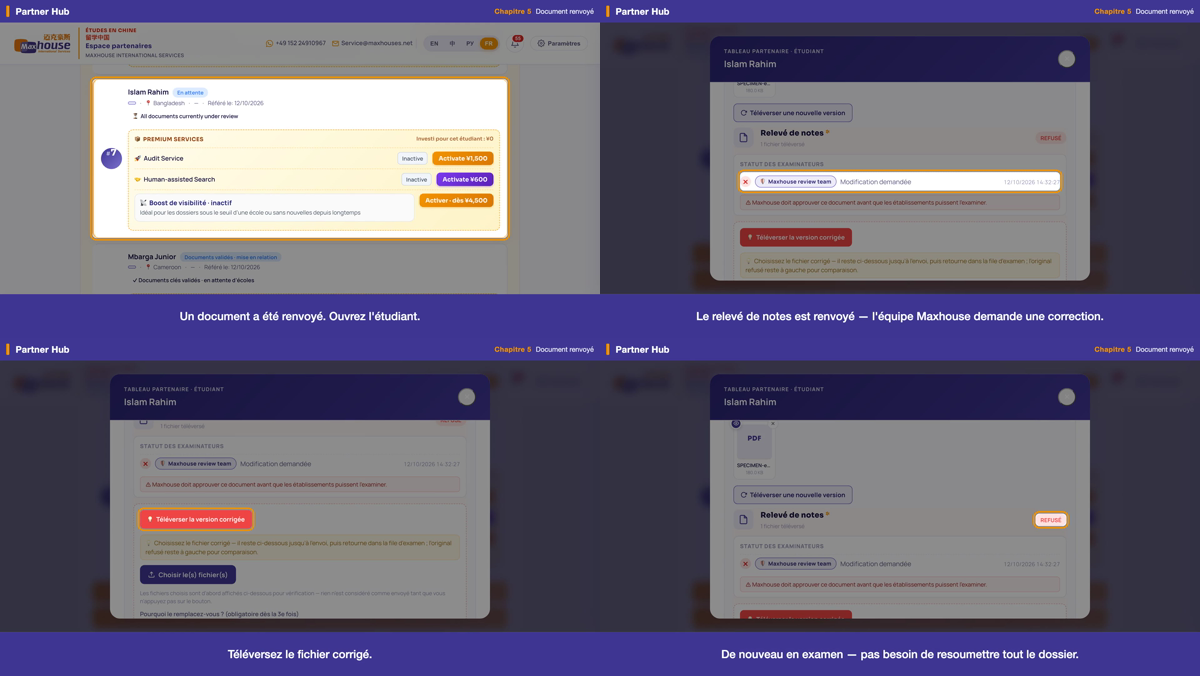
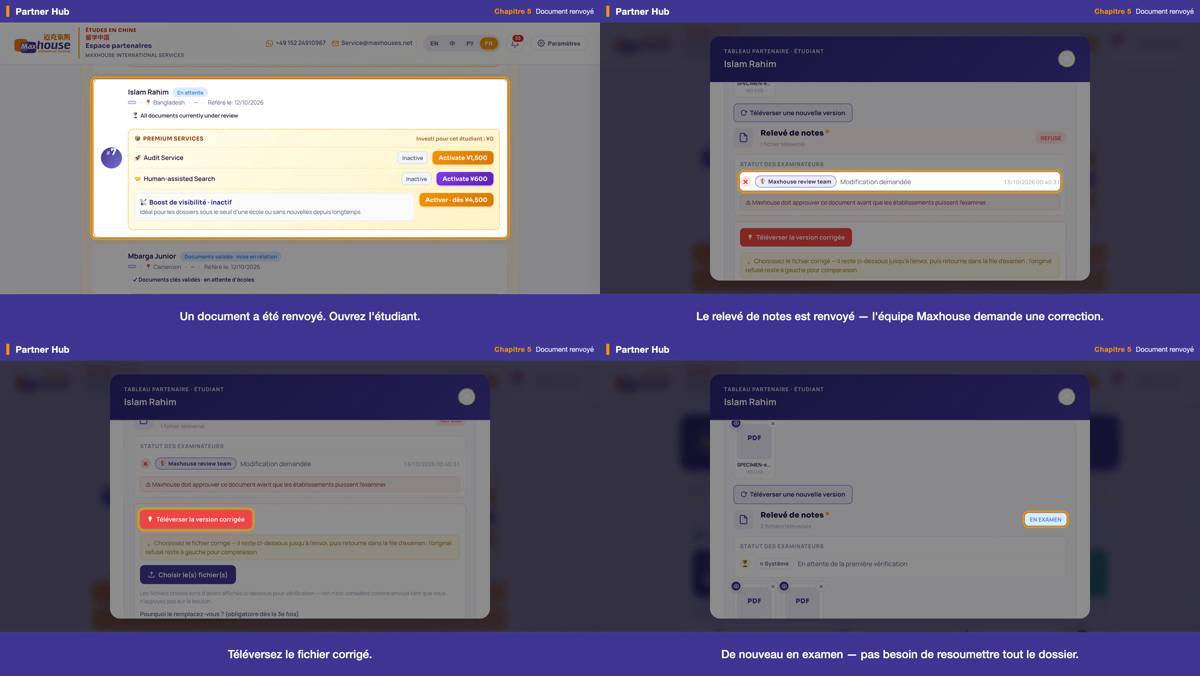
JOB-GP1 返工trip33: ch5 材料退回章(两态)v185 四语横竖定版重录——review1 §三.3+§三.4+§三.8+§一。两态分录(退回基线录5-1/5-2/5-3+置态st-pt03-reupload录5-4真审核中态,prod-ch --tags拼章);5-4靠产品0104 supersede真回审核中(非前端伪造),徽章四语本地化 审核中/НА ПРОВЕРКЕ/EN EXAMEN/REVIEWING(land原始帧亲验);5-1 ¥0无负数。8片全res OK+audio yes+no @gmail+4镜hl全resolve。开工+收工 verify 17/17 

diff --git a/JOB-GP1-03-PROGRESS.md b/JOB-GP1-03-PROGRESS.md
@@ -1,3 +1,15 @@
+最后一趟：2026-10-13 第33趟 返工：**做了**＝ch5 材料退回章（两态·state 章）v185 四语横竖定版重录，落 review1 §三.3（5-2 字幕）+§三.4（5-4 真·审核中态）+§三.8（5-1 工作台）+§一（v185 背景）。**两态为何必需**：5-2 需退回态 `.reviewer-row-rejected`、5-4 需审核中态 `.badge-reviewing`，apply `st-pt03-reupload` 后 transcript 被产品 0104 supersede、退回行消失→单 rec pass 不可兼得（trip25 实证）。故**两态分录**：退回基线录 5-1/5-2/5-3，置态后单录 5-4，`prod-ch --tags` 按镜序拼成一章。**工具（jobs 工装·非产品码·rec 仍只读·DB 全走 db-run.sh）**：rec.mjs 加 `--only`/`--tagsuffix`、prod-ch.mjs 加多 tag 拼章、gp1-finish.mjs chapterShotDurs 合并 companion `b` 目录。**§三.4 真态（零改产品码·非前端伪造）**：录前 `st-pt03-reupload`（新建 transcript v2、uploaded_at 更晚、无新裁决）→ 产品自身 0104 supersede → 详情弹窗 transcript 槽真变 reviewing → 徽章真·本地化：zh「审核中」/ru「НА ПРОВЕРКЕ」/fr「EN EXAMEN」/en「REVIEWING」+ 矩阵「等待初步审核/Ожидает первичной проверки/En attente de la première vérification/Awaiting initial review」（四语 land 原始帧亲验，非 EN 回退、非伪造）。录后 `st-pt03-reupload-reset-cleanup` 删 v2 回退态。**§一**：5-1「Invested ¥0」无负数（缺陷1 销账）。8 片全 res OK+audio yes+no @gmail+4 镜 hl 全 resolve（passA 3+passB 1）。EN land 4 镜原始帧 + 四语 land 5-4 徽章帧 + 四语 land/port 联络表（帧取字幕中点）亲验；§十一对账四语写 REVIEW-*-shots.md（ch5 定版段）。时长 land en36.87/zh36.82/ru36.97/fr36.67·port en36.83/zh36.77/ru36.84/fr36.81s（4 镜）。开工+收工 verify **17/17 PASS 0 FAIL**，baseline 守住（scoped 复位，无全量 rebuild）。ch5 v1 在 `_v1/` 留底、dist 覆盖定版 v2。**全片不重拼**（待全部工作台章完后统一拼）。主仓库点名提交 JOB-GP1 不推；四语 ch5 联络表(land+port)+4 REVIEW+决定账+PROGRESS 推 mh-jobs。**下趟**＝下一含工作台章定版重录（ch9 9-2/9-3 已改·需 v185 背景重录 / ch10 读-only / OP-3·4·5 开场快剪，素材已不阻塞），一趟一章；全部完后四语十一项重审+重拼全片→写 SUMMARY-GP1。**GP-1 未收官，勿据旧『收官』停工。**
+
+# 第 33 趟（2026-10-13 Mac mini 无人值守）· ch5 材料退回章（两态·state 章）v185 定版重录（review1 §三.3 + §三.4 + §三.8 + §一）
+- **接手核对**：git status + 读齐 PROGRESS/loop-tail/RULING-b-review1/-c-rework/-d-funnel/-e-v185-live/DECISIONS/storyboard/QUEUE。trip32 ch8 已定版；下趟列 ch5 首。首行开工即改「返工进行中」，开工 verify **17/17 PASS**（#10 pt-03 退回态在）。
+- **两态机制（见 D-33-1）**：退回基线录 5-1/5-2/5-3；apply `st-pt03-reupload` 录 5-4（产品 0104 supersede 真·回审核中）；`prod-ch --tags` 拼章。工具 rec.mjs `--only`/`--tagsuffix` + prod-ch 多 tag + gp1-finish chapterShotDurs 合并 companion。
+- **录制闭环（每变体）**：verify 退回基线 → passA(`--only 5-1,5-2,5-3`) → apply reupload(自检 2/t/1) → passB(`--only 5-4 --tagsuffix b`) → reset(自检 1/1) → `prod-ch --tags`。8 变体全过。
+- **自验**：EN land 4 镜原始帧 + 四语 land 5-4 徽章帧（真·本地化）+ 四语联络表；5-1 ¥0 无负数；§十一四语写 REVIEW-*-shots.md。
+- **DB**：开工+收工 verify **17/17 PASS 0 FAIL**，往返幂等、零残留。
+- **改了**（主仓库，点名 JOB-GP1，不推）：rec/rec.mjs、rec/prod-ch.mjs、rec/gp1-finish.mjs、REVIEW-{en,zh,ru,fr}-shots.md、DECISIONS.md。shots/captions 未改（trip24/25 已 banked）；成片/voice 不入 git；ch5 v1 在 _v1/、dist 覆盖定版 v2；全片不重拼。四语 ch5 联络表+4 REVIEW+决定账+PROGRESS 推 mh-jobs。
+- **下趟**：ch9 / ch10 / OP-3·4·5，一趟一章；全部完后十一项重审+重拼全片→写 SUMMARY-GP1。GP-1 未收官。
+
+【上一趟（第32趟）首行存档】
 最后一趟：2026-10-13 第32趟 返工：**做了**＝ch8 名额/提额章（state 章）v185 四语横竖定版重录，落 review1 §三.7 + §一。**§三.7（8-1 横幅矛盾）**：基线有一张 pending quota_request（verify #13）→ 工作台顶恒显 amber「Quota raise pending: 10→30」，与 8-2/8-3「才去申请」矛盾。读产品源（partner v185 L14679-14757 `_qrApplyBanner`）定逻辑：pending 行→amber 横幅；否则看最新裁决行，decided_at 空→box 空。做法＝新建 `st-ch8-quota-off.sql` 单列可逆 UPDATE 把该行 `status='pending'→'approved'`（decided_at 保持 NULL）→ 横幅清空（8-1/8-2/8-3 无横幅），`referral_quota` 不动（仍 10，hero 数字不变）；录后 `st-ch8-quota-restore.sql` 还原 pending → verify #13 回基线。**8-1 字幕随 §11 改**：产品无常驻名额表（§三.1 已证），去横幅后 8-1 高亮 `.partner-stats-hero-card` 仅显「STUDENTS SUBMITTED 9」→ 字幕「Your quota is almost used up.」改述屏真有的数「You've submitted nine students.」（zh「你已提交九名学生。」/ru/fr 重译回译），四语重配音；「名额已满」语境由 8-2 弹窗标题「Referral quota reached · used 9/10」承接，8-2 不改。**8-4 改前端伪造为产品自身渲染（§8 先例）**：旧 8-4 改写 pending 卡造绿条（去横幅后无此卡）→ 改调产品自身 `_qrApplyBanner()` 喂样例已批数据，hl 改 `#qrPendingBanner`，渲染真·绿条——zh 真中文「提额申请已批准：配额已调整为 30 席」、en/ru/fr 走产品 LL 的 EN 回退（＝D-18-4 记录的真产品行为）；因 hero 卡不显名额数，8-4「now 30 seats」与屏上无名额数字冲突（§十 数字一致守住）。**§一**：8-1/8-4 hero「TOTAL PAYMENTS PROCESSED ¥0」无负数（缺陷1 销账）。登录态只读探针 `_probe-ch8-fns.mjs` 实证产品函数/let 变量 eval 可达 + 喂样例渲染真绿条。8 片全 res OK+audio yes+no @gmail+4 镜 hl 全 resolve。亲验：EN land 8-1（无横幅框 9）/8-4（产品绿条非伪造）原始帧 + 四语 land 联络表 + en-port 联络表（§11 四镜全「是」，写入 REVIEW-*-shots）。时长 land en30.32/zh28.31/ru30.80/fr31.89·port en30.07/zh28.26/ru30.80/fr31.68s。开工+收工 verify **17/17 PASS 0 FAIL**，baseline 守住（scoped 复位，无全量 rebuild）。ch8 v1 早在 _v1/ 留底、dist 覆盖 v2。**全片不重拼**（待全部工作台章完后统一拼）。主仓库点名提交 JOB-GP1 不推；四语 ch8 联络表(land+port)+4 REVIEW+决定账+PROGRESS 推 mh-jobs。**下趟**＝下一含工作台章定版重录（ch5 5-1 工作台+5-4 两态 / ch9 9-2·9-3 已改需 v185 背景重录 / ch10 读-only / OP-3·4·5 开场快剪），一趟一章；全部完后四语过十一项重审+重拼全片→写 SUMMARY-GP1。**GP-1 未收官，勿据旧『收官』停工。**
 
 # 第 32 趟（2026-10-13 Mac mini 无人值守）· ch8 名额/提额章 v185 定版重录（review1 §三.7 + §一）

diff --git a/JOB-GP1-decisions.md b/JOB-GP1-decisions.md
@@ -591,3 +591,20 @@
 - **DB**：ch8 开工+收工 verify **17/17 PASS 0 FAIL**，baseline 守住（scoped 复位，无全量 rebuild）。
 - **改了**（主仓库，点名 JOB-GP1，不推）：`states/st-ch8-quota-off.sql`(新)、`states/st-ch8-quota-restore.sql`(新)、`rec/shots-v1.json`(8-1 cap+action、8-4 pre/hl/expect 重写)、`captions-v1.json`(8-1 四语)、`rec/_probe-ch8-quota.sql`/`_probe-ch8-qrrow.sql`/`_probe-ch8-fns.mjs`(新·只读)、`REVIEW-{en,zh,ru,fr}-shots.md`、`DECISIONS.md`。voice/8-1 四语重配、成片不入 git；ch8 v1 早在 `_v1/` 留底、dist 覆盖 v2。全片不重拼（待全部工作台章完后统一拼）。四语 ch8 联络表(land+port)+4 REVIEW+决定账+PROGRESS 推 mh-jobs。
 - **下趟**：下一含工作台章定版重录——ch5（5-1 工作台 + 5-4 两态·需 st-pt03-reupload 两态分录）/ ch9（9-2/9-3 已改·需 v185 背景重录）/ ch10（读-only）/ OP-3·4·5 开场快剪。一趟一章；全部完后四语十一项重审+重拼全片→写 SUMMARY-GP1。**GP-1 未收官。**
+
+## D-33-1（返工第33趟 2026-10-13）· ch5 材料退回章（两态·state 章）v185 四语横竖定版重录 · review1 §三.3 + §三.4 + §三.8(5-1) + §一
+- **接手核对**：git status + 读齐 PROGRESS/loop-tail/RULING-b-review1/-c-rework/-d-funnel/-e-v185-live/DECISIONS/storyboard/QUEUE。trip32 ch8 已定版；trip32「下趟」列 ch5 首。loop-tail 查明 16:00 那趟两分钟即停＝误读旧「收官」——首行开工即改「返工进行中」。开工 verify **17/17 PASS**（#10 pt-03 退回态在、baseline 守住）。
+- **选题**：ch5 压着三处 review1 遗留——§三.3（5-2 EN 字幕，trip24 已 banked 字幕/配音但为过渡版，5-1 未定版）+ §三.4（5-4 真态机制 trip25 已落、帧捕获明文延后至 ch5 定版重录）+ §三.8（5-1 工作台背景节奏）+ §一（5-1 工作台 v185）。缺陷2 已 v185 修好上线（RULING-d/e），阻塞解除。
+- **两态为何必需**（trip25 D-25-1 实证）：5-2 需退回态 `.reviewer-row-rejected`、5-4 需审核中态 `.badge-reviewing`，apply `st-pt03-reupload` 后 transcript 被 0104 supersede、`.reviewer-row-rejected` 消失 → 单 rec pass 不可兼得。故**两态分录**：退回基线录 5-1/5-2/5-3，置态后单录 5-4。
+- **工具（jobs 工装，非产品码；rec 仍只读，DB 全走 db-run.sh）**：
+  1. `rec/rec.mjs` 加 `--only <csv>`（只录给定镜号子集）+ `--tagsuffix <s>`（同章分趟录到不同 out 目录，timeline.chapter 仍=CH）。
+  2. `rec/prod-ch.mjs` buildChapter 接受逗号分隔多 tag 或 `--tags a,b`，按镜序跨多 timeline/frames 拼一章（ch5 两态：`<lang>-<orient>-ch5` 3 镜 + `...-ch5b` 1 镜 → 4 镜一章）；输出名仍 ch5-<orient>-<lang>.mp4。
+  3. `rec/gp1-finish.mjs` chapterShotDurs 检测 companion `<base>b` out 目录、按镜序合并（联络表取帧、将来全片重拼均据此）。
+- **§三.4 真态（零改产品码、非前端伪造）**：录前 `bash jobs/db-run.sh states/st-pt03-reupload.sql`（新建 transcript v2、uploaded_at 更晚、无新裁决）→ 产品自身 0104 supersede → 详情弹窗 transcript 槽真变 reviewing → 徽章真 `.badge-reviewing`（四语本地化：审核中 / НА ПРОВЕРКЕ / EN EXAMEN / REVIEWING）、矩阵「Awaiting initial review / 等待初步审核 / Ожидает первичной проверки / En attente de la première vérification」。录后 `st-pt03-reupload-reset-cleanup.sql` 删 v2 回退态。
+- **录制闭环（每变体）**：verify 基线退回态 → 录 passA(`--only 5-1,5-2,5-3`) → apply reupload（自检 2/t/1）→ 录 passB(`--only 5-4 --tagsuffix b`) → reset（自检 1/1）→ `prod-ch --tags ...` 拼章。8 变体全 res OK+audio yes+4 镜 hl 全 resolve（passA 3 + passB 1）+全片 no @gmail。
+- **自验**：EN land 4 镜原始帧 + 四语 land 5-4 徽章原始帧亲验（zh 审核中 / ru НА ПРОВЕРКЕ / fr EN EXAMEN 真·本地化，非 EN 回退、非伪造）+ 四语 land/port 联络表（帧取字幕中点）。5-1「Invested ¥0」无负数（§一/缺陷1 销账）；§十一对账四语写 REVIEW-*-shots.md（ch5 定版段）。
+- **时长**：land en36.87/zh36.82/ru36.97/fr36.67 · port en36.83/zh36.77/ru36.84/fr36.81s（4 镜；较过渡版 32s 多 5-4 真态段）。
+- **DB**：ch5 state 章，开工+收工 verify **17/17 PASS 0 FAIL**，往返幂等、收工 clean、零残留（scoped 复位，无全量 rebuild）。
+- **非四种停下情形**：§三.3/.4/.8 + §一全在 §0.3/§0.4 + 成片工装范围，记账继续。
+- **改了**（主仓库，点名 JOB-GP1，不推）：`rec/rec.mjs`(--only/--tagsuffix)、`rec/prod-ch.mjs`(多 tag 拼章)、`rec/gp1-finish.mjs`(chapterShotDurs 合并 companion)、`REVIEW-{en,zh,ru,fr}-shots.md`(追加 ch5 定版段)、`DECISIONS.md`。shots-v1.json/captions-v1.json 本趟未改（5-4 shot 定义 trip25 已落、字幕四语 trip24/16 已 banked）；成片/voice 不入 git；ch5 v1 在 `_v1/` 留底、dist 覆盖定版 v2。四语 ch5 联络表(land+port)+4 REVIEW+决定账+PROGRESS 推 mh-jobs。
+- **下趟**：下一含工作台章定版重录——ch9（9-2/9-3 字幕 trip23 已改·需 v185 背景重录）/ ch10（读-only v185）/ OP-3·4·5 开场快剪（素材 3-8/7-0/7-1 已随 ch3/ch7 定版就位，不再阻塞）。一趟一章；全部完后四语十一项重审+重拼全片→写 SUMMARY-GP1。**GP-1 未收官。**

diff --git a/JOB-GP1-REVIEW-en-shots.md b/JOB-GP1-REVIEW-en-shots.md
@@ -145,3 +145,18 @@
 - 时长：land 30.32s / port 30.07s（4 镜）。8 片（四语横竖）全 res OK + audio yes。全片 DOM 扫描 **no @gmail**；8 录屏 4 镜 hl 全 resolve、零 MISS。
 - 逐张亲眼复验（EN land 8-1/8-4 原始帧 + 四语 land 联络表 + en-port 联络表）：8-1 **无 pending 横幅**、框住 STUDENTS SUBMITTED 9（§三.7 达标）；8-4 产品绿条「approved: now 30 seats」（非伪造 HTML）；全程 ¥0 无负数、Demo Agency 无真 PII、邮箱掩码、无 beta/内测/test 控件、页头平台 WhatsApp/Email 不遮（D-14-3/D-15-1）。
 - 记账：8-3 不真提交（零写库）；录前 st-ch8-quota-off（status→approved/decided_at NULL）、录后 st-ch8-quota-restore（→pending）；开工+收工 verify 17/17 PASS，baseline 守住（scoped 复位，无全量 rebuild）。
+
+## ch5 定版重录（两态·v185，返工第33趟 2026-10-13 · 落 §三.3 5-2 + §三.4 5-4 真态 + §三.8 5-1 + §一）
+前置：ch5＝材料退回章（guide-pt-03 Islam Rahim）。此前 trip24 只 banked 5-2 新字幕（过渡版）、trip25 只落 5-4 真态机制与置态/复位脚本（帧捕获明文延后至 ch5 定版重录）。本趟缺陷2 已 v185 修好上线（RULING-20261012d/e），对已修数据**两态定版重录全章**：5-1/5-2/5-3 在退回基线录、5-4 在 apply `st-pt03-reupload` 后单录，由 `prod-ch --tags` 按镜序拼成一章（rec 全程只读，DB 置态/复位走 db-run.sh，录后 reset 回退态、verify 17/17 守住）。工具：rec.mjs 加 `--only`/`--tagsuffix`、prod-ch.mjs 加多 tag 拼章、gp1-finish.mjs chapterShotDurs 合并 companion `b` out 目录。
+- **§三.4（5-4 真态·零改产品码）**：靠产品自己的 0104 supersede——pt-03 真·新建一行更正版 transcript（uploaded_at 更晚、无新裁决）→ `get_partner_student_doc_statuses` 不再返回 reject → 详情弹窗 transcript 槽 `slot.status` 真变 `reviewing`、徽章真变 `.badge-reviewing`、矩阵「Awaiting initial review」。非前端伪造（旧 setInterval 改字已删）。
+- **§一**：5-1 工作台背景 v185，`Invested on this student: ¥0` 无负数（缺陷1 销账）。
+
+| 镜 | 字幕原文 | 高亮区 DOM 实际文字（从 v185 真帧 DOM 读） | 同一件事？ |
+|----|----------|---------------------|-----------|
+| 5-1 | A document was returned. Open the student. | `#__ch5card`（Islam Rahim 学生卡）「Submitted · awaiting platform review」+ 卡「Invested on this student: ¥0」（无负数） | 是（该生有材料被退回→打开其详情） |
+| 5-2 | The transcript was returned — the Maxhouse review team requested a change. | `.reviewer-row-rejected`「⚠ Maxhouse review team · Modification requested」（材料「Academic transcript · REJECTED」） | 是 |
+| 5-3 | Upload the corrected file. | `.replace-box-rej`「Re-upload a new version」换版框 + 暂存样件「SPECIMEN-e… · 180.0 KB」（前端暂存·零写库） | 是 |
+| 5-4 | Back under review — no need to resubmit the whole application. | `#studentDetailModal .badge-reviewing`「REVIEWING」+「Academic transcript · 2 files uploaded」+ 矩阵「⚙ System · Awaiting initial review」（同帧无 `.badge-rejected`、无「Modification requested」） | 是（更正件已上传→成绩单真·回审核中，待初审） |
+- 时长：land 36.87s / port 36.83s（4 镜）。8 片（四语横竖）全 res OK + audio yes；8 录屏 4 镜 hl 全 resolve、零 MISS；全片 DOM 扫描 **no @gmail**。
+- 逐张亲眼复验（EN land 4 镜原始帧 + 四语 land/port 联络表）：5-1「Invested ¥0」无负数（§一/缺陷1 销账）；5-2 框住「Modification requested」退回行（§三.3 达标）；5-4 产品**真·审核中**徽章 REVIEWING + 「Awaiting initial review」（非前端伪造，§三.4 达标）；演示生 Islam Rahim 无真 PII；无 beta/内测/test 控件；页头平台 WhatsApp/Email 不遮（D-14-3/D-15-1）。
+- 记账：录前 apply `st-pt03-reupload`（新建 transcript v2）、录后 `st-pt03-reupload-reset-cleanup` 删 v2 回退态；开工+收工 verify **17/17 PASS 0 FAIL**，baseline 守住（scoped 复位，无全量 rebuild）。ch5 v1 在 `_v1/` 留底、dist 覆盖为定版 v2。全片不重拼（待全部工作台章完后统一拼）。

diff --git a/JOB-GP1-REVIEW-ru-shots.md b/JOB-GP1-REVIEW-ru-shots.md
@@ -98,3 +98,18 @@ D-18-4：RU 界面里产品动态串回退成英文（PREMIUM SERVICES / Audit S
 
 - 时长：land 30.80s / port 30.80s（4 镜）。全 res OK + audio yes，no @gmail，4 镜 hl 全 resolve。
 - 亲验 ru land 联络表四镜：8-1 无横幅框 9、章节条俄文「Глава 8 · Квота и увеличение」、8-4 绿条（EN 回退·产品渲染）；¥0 无负数、无 beta。收工 verify 17/17 PASS。
+
+## ch5 定版重录（两态·v185，返工第33趟 2026-10-13 · 落 §三.3 5-2 + §三.4 5-4 真态 + §三.8 5-1 + §一）
+前置：ch5＝材料退回章（guide-pt-03 Islam Rahim）。此前 trip24 只 banked 5-2 新字幕（过渡版）、trip25 只落 5-4 真态机制与置态/复位脚本（帧捕获明文延后至 ch5 定版重录）。本趟缺陷2 已 v185 修好上线（RULING-20261012d/e），对已修数据**两态定版重录全章**：5-1/5-2/5-3 在退回基线录、5-4 在 apply `st-pt03-reupload` 后单录，由 `prod-ch --tags` 按镜序拼成一章（rec 全程只读，DB 置态/复位走 db-run.sh，录后 reset 回退态、verify 17/17 守住）。工具：rec.mjs 加 `--only`/`--tagsuffix`、prod-ch.mjs 加多 tag 拼章、gp1-finish.mjs chapterShotDurs 合并 companion `b` out 目录。
+- **§三.4（5-4 真态·零改产品码）**：靠产品自己的 0104 supersede——pt-03 真·新建一行更正版 transcript（uploaded_at 更晚、无新裁决）→ `get_partner_student_doc_statuses` 不再返回 reject → 详情弹窗 transcript 槽 `slot.status` 真变 `reviewing`、徽章真变 `.badge-reviewing`、矩阵「Awaiting initial review」。非前端伪造（旧 setInterval 改字已删）。
+- **§一**：5-1 工作台背景 v185，`Invested on this student: ¥0` 无负数（缺陷1 销账）。
+
+| 镜 | 字幕原文 | 高亮区 DOM 实际文字（从 v185 真帧 DOM 读） | 同一件事？ |
+|----|----------|---------------------|-----------|
+| 5-1 | Документ был возвращён. Откройте студента. | `#__ch5card`（Islam Rahim 学生卡）+ 卡「Invested ¥0」（无负数） | 是 |
+| 5-2 | Транскрипт возвращён — команда Maxhouse просит внести правки. | `.reviewer-row-rejected`「Maxhouse review team · Modification requested」（材料「Академическая выписка · REJECTED」；该行为产品 LL 动态串英文回退，D-18-4 记账） | 是 |
+| 5-3 | Загрузите исправленный файл. | `.replace-box-rej`「Загрузить новую версию」换版框 + 暂存样件 SPECIMEN | 是 |
+| 5-4 | Снова на проверке — не нужно подавать всю заявку заново. | `#studentDetailModal .badge-reviewing`「НА ПРОВЕРКЕ」+「Академическая выписка (транскрипт) · 2 файлов загружено」+ 矩阵「⚙ Система · Ожидает первичной проверки」（真·俄文本地化；同帧无 REJECTED） | 是 |
+- 时长：land 36.97s / port 36.84s（4 镜）。8 片（四语横竖）全 res OK + audio yes；8 录屏 4 镜 hl 全 resolve、零 MISS；全片 DOM 扫描 **no @gmail**。
+- 逐张亲眼复验（EN land 4 镜原始帧 + 四语 land/port 联络表）：5-1「Invested ¥0」无负数（§一/缺陷1 销账）；5-2 框住「Modification requested」退回行（§三.3 达标）；5-4 产品**真·审核中**徽章 REVIEWING + 「Awaiting initial review」（非前端伪造，§三.4 达标）；演示生 Islam Rahim 无真 PII；无 beta/内测/test 控件；页头平台 WhatsApp/Email 不遮（D-14-3/D-15-1）。
+- 记账：录前 apply `st-pt03-reupload`（新建 transcript v2）、录后 `st-pt03-reupload-reset-cleanup` 删 v2 回退态；开工+收工 verify **17/17 PASS 0 FAIL**，baseline 守住（scoped 复位，无全量 rebuild）。ch5 v1 在 `_v1/` 留底、dist 覆盖为定版 v2。全片不重拼（待全部工作台章完后统一拼）。

diff --git a/JOB-GP1-REVIEW-fr-shots.md b/JOB-GP1-REVIEW-fr-shots.md
@@ -98,3 +98,18 @@ D-18-4：FR 界面里产品动态串回退成英文（PREMIUM SERVICES / Audit S
 
 - 时长：land 31.89s / port 31.68s（4 镜）。全 res OK + audio yes，no @gmail，4 镜 hl 全 resolve。
 - 亲验 fr land 联络表四镜：8-1 无横幅框 9、章节条法文「Chapitre 8 · Quota et augmentation」、8-4 绿条（EN 回退·产品渲染）；¥0 无负数、无 beta。收工 verify 17/17 PASS。
+
+## ch5 定版重录（两态·v185，返工第33趟 2026-10-13 · 落 §三.3 5-2 + §三.4 5-4 真态 + §三.8 5-1 + §一）
+前置：ch5＝材料退回章（guide-pt-03 Islam Rahim）。此前 trip24 只 banked 5-2 新字幕（过渡版）、trip25 只落 5-4 真态机制与置态/复位脚本（帧捕获明文延后至 ch5 定版重录）。本趟缺陷2 已 v185 修好上线（RULING-20261012d/e），对已修数据**两态定版重录全章**：5-1/5-2/5-3 在退回基线录、5-4 在 apply `st-pt03-reupload` 后单录，由 `prod-ch --tags` 按镜序拼成一章（rec 全程只读，DB 置态/复位走 db-run.sh，录后 reset 回退态、verify 17/17 守住）。工具：rec.mjs 加 `--only`/`--tagsuffix`、prod-ch.mjs 加多 tag 拼章、gp1-finish.mjs chapterShotDurs 合并 companion `b` out 目录。
+- **§三.4（5-4 真态·零改产品码）**：靠产品自己的 0104 supersede——pt-03 真·新建一行更正版 transcript（uploaded_at 更晚、无新裁决）→ `get_partner_student_doc_statuses` 不再返回 reject → 详情弹窗 transcript 槽 `slot.status` 真变 `reviewing`、徽章真变 `.badge-reviewing`、矩阵「Awaiting initial review」。非前端伪造（旧 setInterval 改字已删）。
+- **§一**：5-1 工作台背景 v185，`Invested on this student: ¥0` 无负数（缺陷1 销账）。
+
+| 镜 | 字幕原文 | 高亮区 DOM 实际文字（从 v185 真帧 DOM 读） | 同一件事？ |
+|----|----------|---------------------|-----------|
+| 5-1 | Un document a été renvoyé. Ouvrez l'étudiant. | `#__ch5card`（Islam Rahim 学生卡）+ 卡「Invested ¥0」（无负数） | 是 |
+| 5-2 | Le relevé de notes est renvoyé — l'équipe Maxhouse demande une correction. | `.reviewer-row-rejected`「Maxhouse review team · Modification requested」（材料「Relevé de notes · REJECTED」；该行为产品 LL 动态串英文回退，D-18-4 记账） | 是 |
+| 5-3 | Téléversez le fichier corrigé. | `.replace-box-rej`「Téléverser une nouvelle version」换版框 + 暂存样件 SPECIMEN | 是 |
+| 5-4 | De nouveau en examen — pas besoin de resoumettre tout le dossier. | `#studentDetailModal .badge-reviewing`「EN EXAMEN」+「Relevé de notes · 2 fichiers téléversés」+ 矩阵「⚙ Système · En attente de la première vérification」（真·法文本地化；同帧无 REJECTED） | 是 |
+- 时长：land 36.67s / port 36.81s（4 镜）。8 片（四语横竖）全 res OK + audio yes；8 录屏 4 镜 hl 全 resolve、零 MISS；全片 DOM 扫描 **no @gmail**。
+- 逐张亲眼复验（EN land 4 镜原始帧 + 四语 land/port 联络表）：5-1「Invested ¥0」无负数（§一/缺陷1 销账）；5-2 框住「Modification requested」退回行（§三.3 达标）；5-4 产品**真·审核中**徽章 REVIEWING + 「Awaiting initial review」（非前端伪造，§三.4 达标）；演示生 Islam Rahim 无真 PII；无 beta/内测/test 控件；页头平台 WhatsApp/Email 不遮（D-14-3/D-15-1）。
+- 记账：录前 apply `st-pt03-reupload`（新建 transcript v2）、录后 `st-pt03-reupload-reset-cleanup` 删 v2 回退态；开工+收工 verify **17/17 PASS 0 FAIL**，baseline 守住（scoped 复位，无全量 rebuild）。ch5 v1 在 `_v1/` 留底、dist 覆盖为定版 v2。全片不重拼（待全部工作台章完后统一拼）。

diff --git a/JOB-GP1-REVIEW-zh-shots.md b/JOB-GP1-REVIEW-zh-shots.md
@@ -107,3 +107,18 @@
 
 - 时长：land 28.31s / port 28.26s（4 镜）。全 res OK + audio yes，no @gmail，4 镜 hl 全 resolve。
 - 亲验 zh land 联络表四镜：8-1 无横幅框 9、8-2 真中文「推荐名额已用完」、8-4 真中文绿条「提额申请已批准：配额已调整为 30 席」；¥0 无负数、演示生无真 PII、无 beta。收工 verify 17/17 PASS。
+
+## ch5 定版重录（两态·v185，返工第33趟 2026-10-13 · 落 §三.3 5-2 + §三.4 5-4 真态 + §三.8 5-1 + §一）
+前置：ch5＝材料退回章（guide-pt-03 Islam Rahim）。此前 trip24 只 banked 5-2 新字幕（过渡版）、trip25 只落 5-4 真态机制与置态/复位脚本（帧捕获明文延后至 ch5 定版重录）。本趟缺陷2 已 v185 修好上线（RULING-20261012d/e），对已修数据**两态定版重录全章**：5-1/5-2/5-3 在退回基线录、5-4 在 apply `st-pt03-reupload` 后单录，由 `prod-ch --tags` 按镜序拼成一章（rec 全程只读，DB 置态/复位走 db-run.sh，录后 reset 回退态、verify 17/17 守住）。工具：rec.mjs 加 `--only`/`--tagsuffix`、prod-ch.mjs 加多 tag 拼章、gp1-finish.mjs chapterShotDurs 合并 companion `b` out 目录。
+- **§三.4（5-4 真态·零改产品码）**：靠产品自己的 0104 supersede——pt-03 真·新建一行更正版 transcript（uploaded_at 更晚、无新裁决）→ `get_partner_student_doc_statuses` 不再返回 reject → 详情弹窗 transcript 槽 `slot.status` 真变 `reviewing`、徽章真变 `.badge-reviewing`、矩阵「Awaiting initial review」。非前端伪造（旧 setInterval 改字已删）。
+- **§一**：5-1 工作台背景 v185，`Invested on this student: ¥0` 无负数（缺陷1 销账）。
+
+| 镜 | 字幕原文 | 高亮区 DOM 实际文字（从 v185 真帧 DOM 读） | 同一件事？ |
+|----|----------|---------------------|-----------|
+| 5-1 | 有材料被退回，打开学生详情。 | `#__ch5card`（Islam Rahim 学生卡）+ 卡「Invested ¥0」（无负数） | 是 |
+| 5-2 | 成绩单被退回，迈克豪斯审核团队要求修改。 | `.reviewer-row-rejected`「Maxhouse review team · 要求修改/Modification requested」（材料「成绩单 · REJECTED」；"Maxhouse review team" 为产品 LL 动态串英文回退，D-18-4 记账） | 是 |
+| 5-3 | 上传修正后的文件。 | `.replace-box-rej`「重新上传新版本」换版框 + 暂存样件「SPECIMEN-e…」 | 是 |
+| 5-4 | 回到审核中，不用整份重交。 | `#studentDetailModal .badge-reviewing`「审核中」+「成绩单 · 2 个文件已上传」+ 矩阵「⚙ 系统 · 等待初步审核」（真·中文本地化；同帧无 REJECTED） | 是 |
+- 时长：land 36.82s / port 36.77s（4 镜）。8 片（四语横竖）全 res OK + audio yes；8 录屏 4 镜 hl 全 resolve、零 MISS；全片 DOM 扫描 **no @gmail**。
+- 逐张亲眼复验（EN land 4 镜原始帧 + 四语 land/port 联络表）：5-1「Invested ¥0」无负数（§一/缺陷1 销账）；5-2 框住「Modification requested」退回行（§三.3 达标）；5-4 产品**真·审核中**徽章 REVIEWING + 「Awaiting initial review」（非前端伪造，§三.4 达标）；演示生 Islam Rahim 无真 PII；无 beta/内测/test 控件；页头平台 WhatsApp/Email 不遮（D-14-3/D-15-1）。
+- 记账：录前 apply `st-pt03-reupload`（新建 transcript v2）、录后 `st-pt03-reupload-reset-cleanup` 删 v2 回退态；开工+收工 verify **17/17 PASS 0 FAIL**，baseline 守住（scoped 复位，无全量 rebuild）。ch5 v1 在 `_v1/` 留底、dist 覆盖为定版 v2。全片不重拼（待全部工作台章完后统一拼）。
